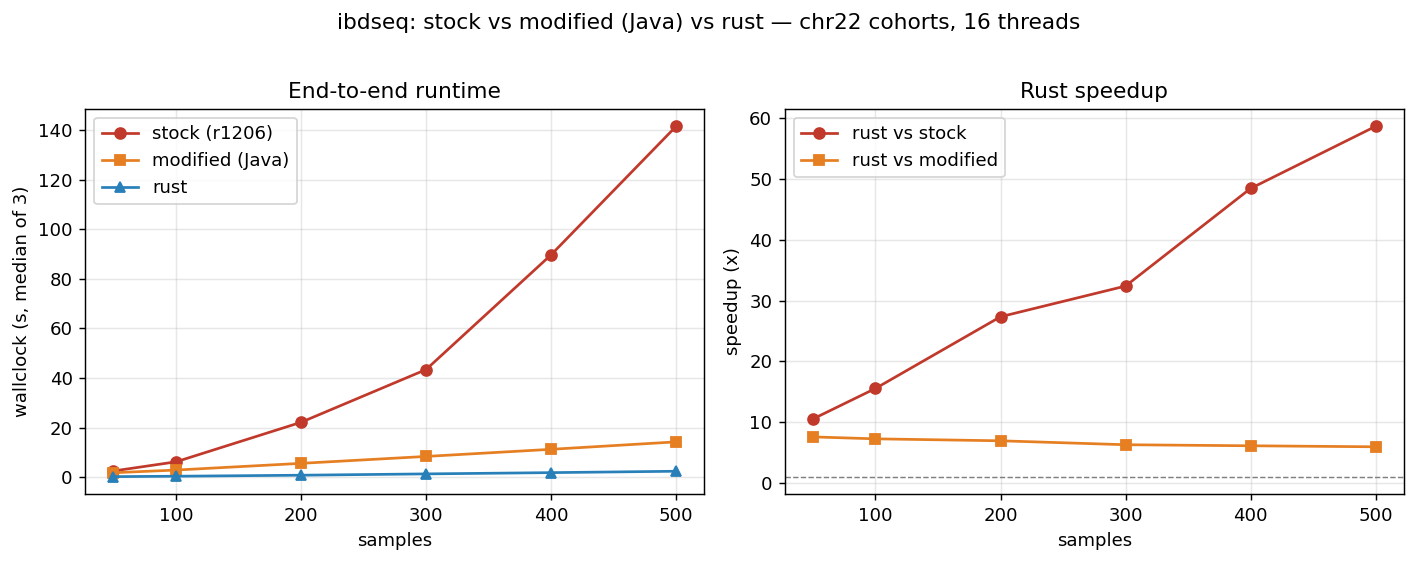
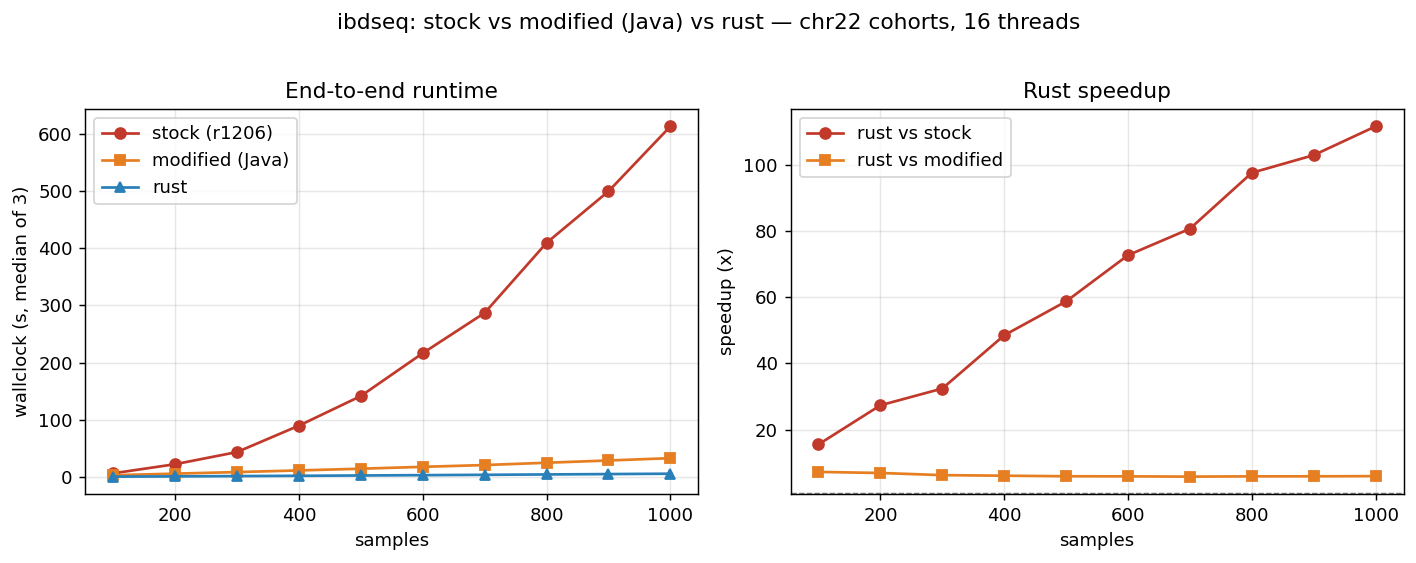
Extend benchmark to 1000 samples (100-sample steps)
Adds sizes 600-1000 (drops the 50-sample point) for a uniform 100..1000 series;
run_benchmark.sh is now resumable (reuses sizes already in results.tsv). Rust
reaches 112x vs stock and holds ~6x vs the modified Java build at 1000 samples;
stock's runtime is ~N² (613 s at 1000 vs rust's 5.5 s).

diff --git a/benchmark/README.md b/benchmark/README.md
@@ -10,10 +10,11 @@ drawn from chr22 of the `ho_20210824_impute_ancient_251004_impute_info_08` datas
 
 ## Method
 
-`run_benchmark.sh` builds cohorts of 50/100/200/300/400/500 samples
-(`bcftools view -c1:nonmajor -S <first N samples>`), then runs each implementation
+`run_benchmark.sh` builds cohorts of 100…1000 samples (100-sample steps,
+`bcftools view -c1:nonmajor -S <first N samples>`), then runs each implementation
 3× per size and records the **median total wallclock** (process start to exit, via
-`date`). Identical parameters and 16 threads for all three:
+`date`). The script is resumable — sizes already in `results.tsv` are reused.
+Identical parameters and 16 threads for all three:
 
 ```
 minalleles=2 ibdlod=3 ibdtrim=0 errormax=0.001 errorprop=0.25
@@ -26,12 +27,16 @@ Reproduce: `bash run_benchmark.sh && python3 plot.py`.
 
 | samples | stock (s) | modified (s) | rust (s) | rust vs stock |
 |--------:|----------:|-------------:|---------:|--------------:|
-|      50 |      2.52 |         1.81 |     0.24 |        10.5×  |
 |     100 |      6.21 |         2.89 |     0.40 |        15.5×  |
 |     200 |     22.14 |         5.59 |     0.81 |        27.3×  |
 |     300 |     43.40 |         8.38 |     1.34 |        32.4×  |
 |     400 |     89.65 |        11.25 |     1.85 |        48.5×  |
 |     500 |    141.45 |        14.25 |     2.41 |        58.7×  |
+|     600 |    216.46 |        17.52 |     2.98 |        72.6×  |
+|     700 |    287.02 |        20.66 |     3.56 |        80.6×  |
+|     800 |    409.54 |        24.70 |     4.20 |        97.5×  |
+|     900 |    499.80 |        28.65 |     4.86 |       102.8×  |
+|    1000 |    613.41 |        32.70 |     5.50 |       111.5×  |
 
 ![benchmark](benchmark.png)
 
@@ -42,7 +47,8 @@ Reproduce: `bash run_benchmark.sh && python3 plot.py`.
   per-pair `score()` kernel dominates as pairs grow (~N²); the modified Java build
   flattens this and rust flattens it further while also avoiding JVM startup.
 - Rust stays ~6× faster than the modified Java build across the range and pulls
-  further ahead of stock as N grows (10× → 59×).
+  further ahead of stock as N grows (16× → 112×). Stock's curve is ~N² (its
+  per-pair `score()` kernel); modified and rust grow far more slowly.
 - For the large-scale picture, the full chr22 run (19,949 samples) takes ~5.1 min
   in rust (detection 242 s) vs ~58 min for the equivalent dense path — see the top
   level repo README / commit history. All three implementations produce concordant